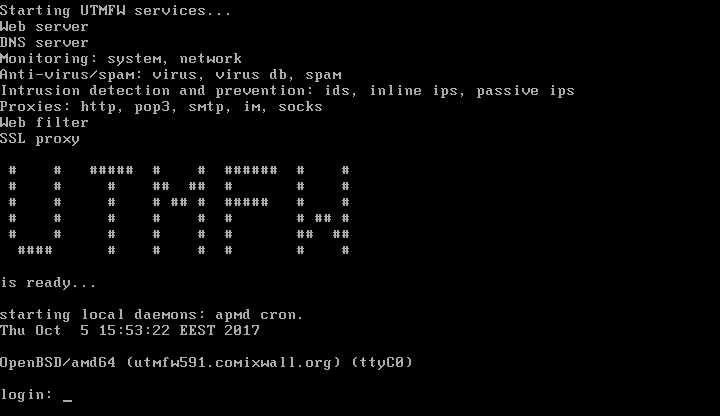
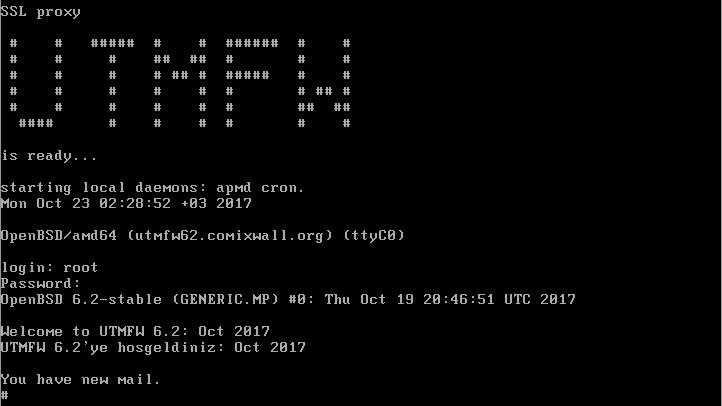
Update UTMFW to 6.2, update console screen shot

diff --git a/src/lib/defs.php b/src/lib/defs.php
@@ -23,7 +23,7 @@
  */
 
 /// Project version.
-define('VERSION', '5.9.2');
+define('VERSION', '6.2');
 
 $ROOT= dirname(dirname(dirname(__FILE__)));
 $SRC_ROOT= dirname(dirname(__FILE__));
